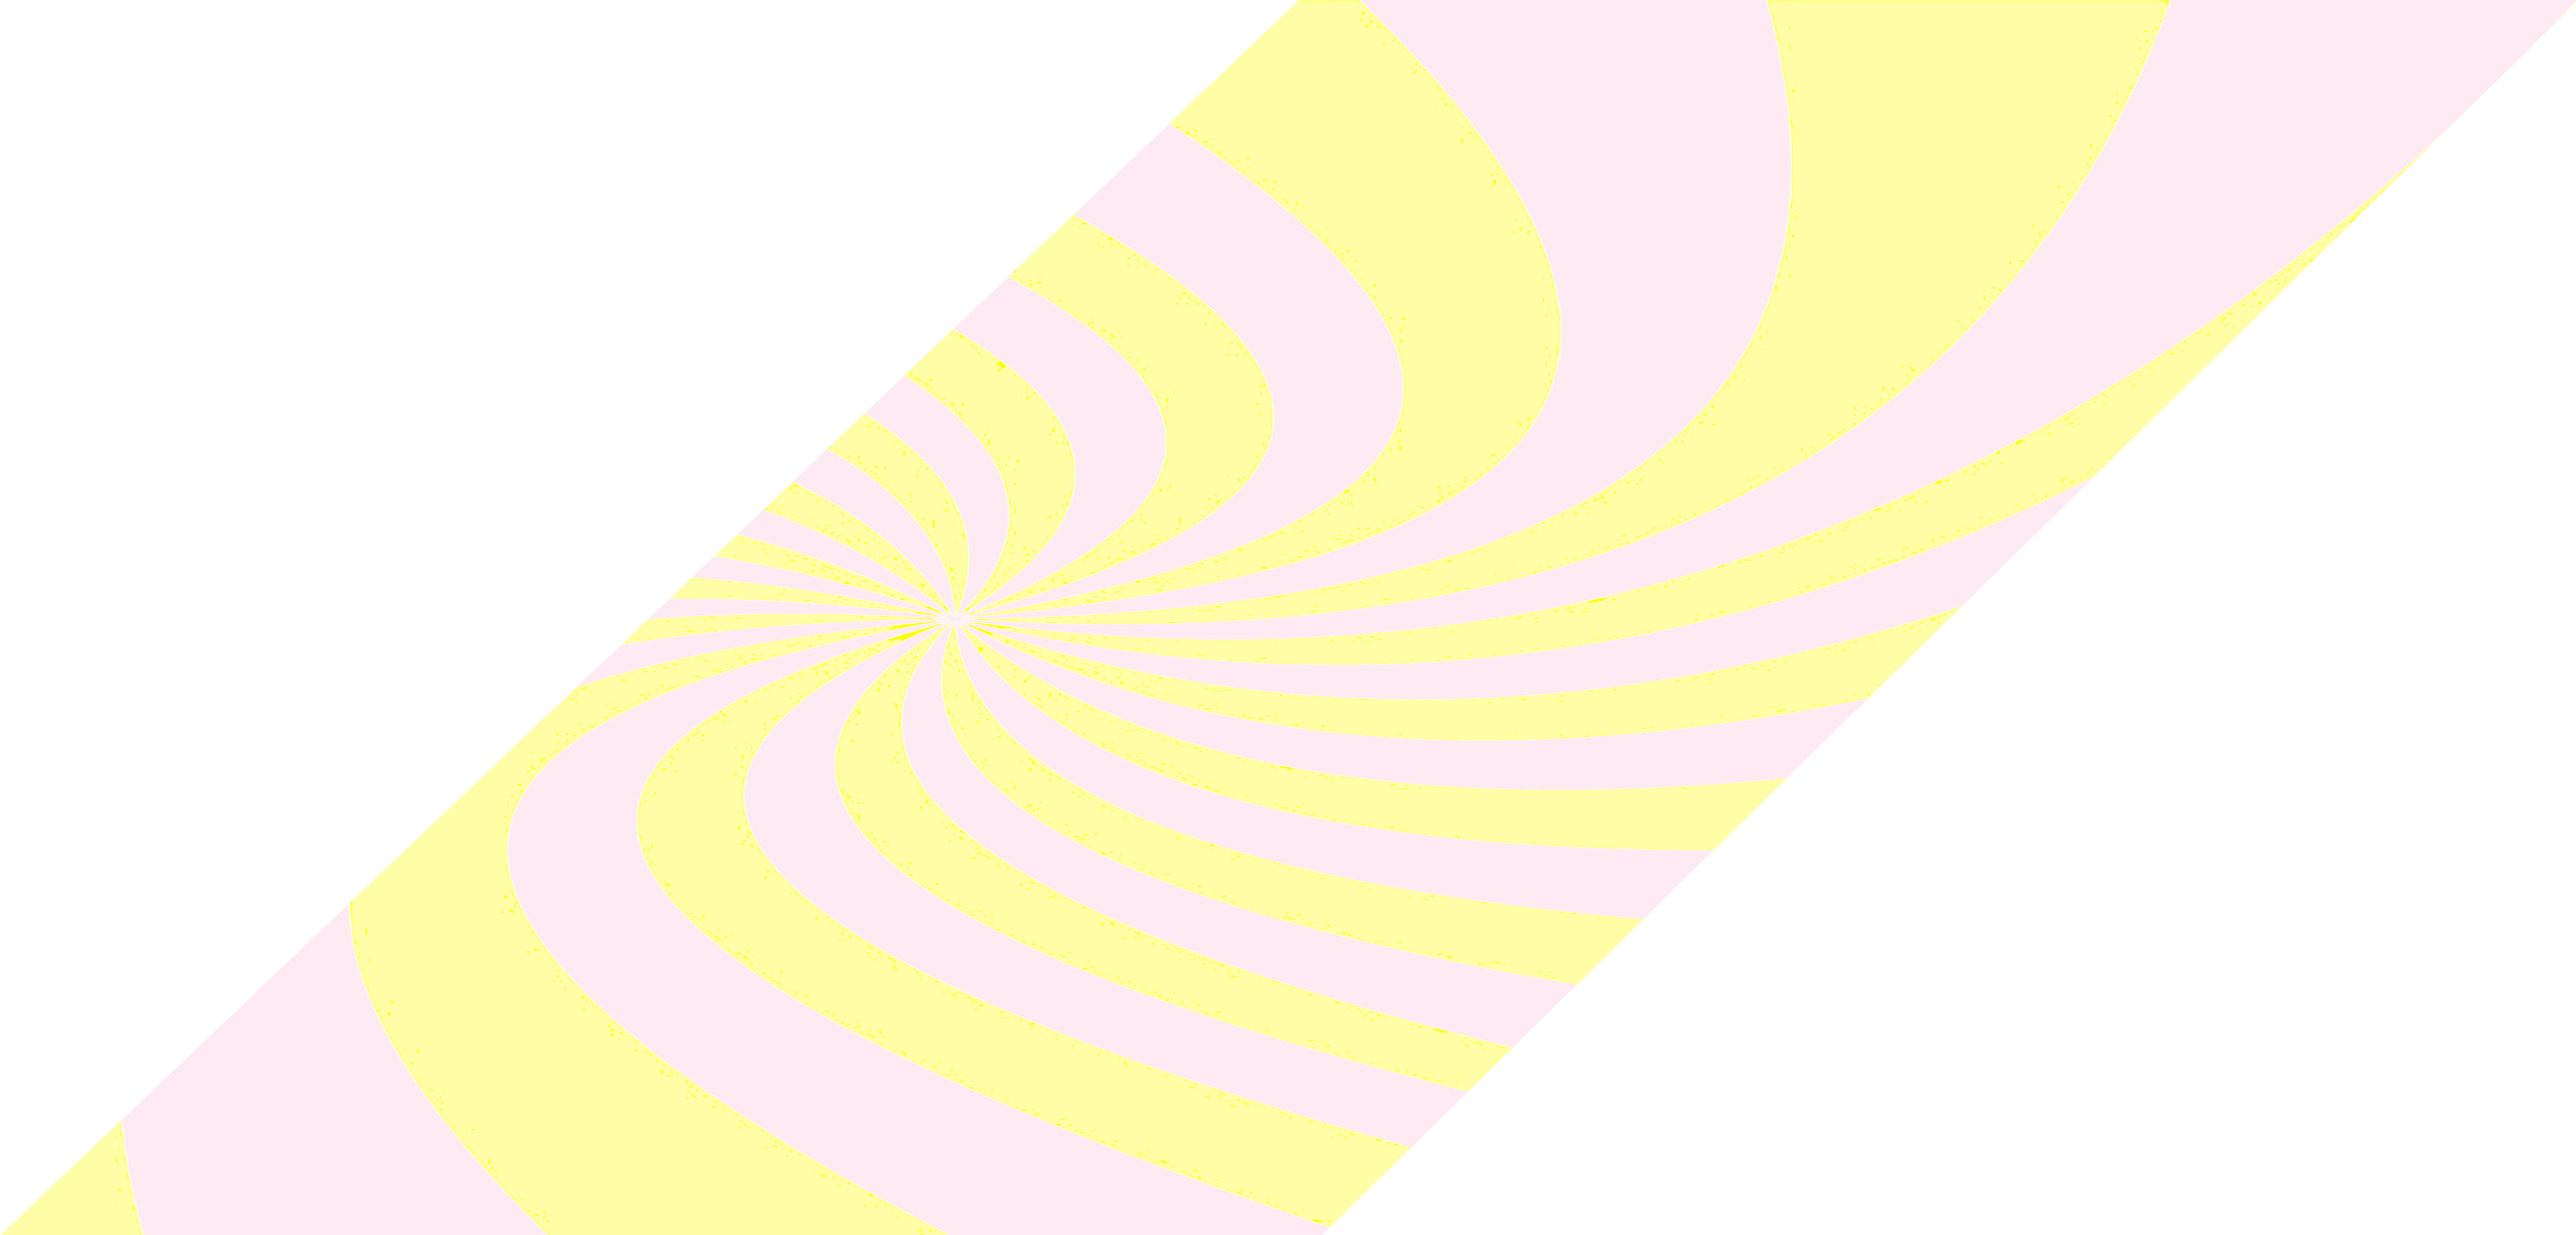
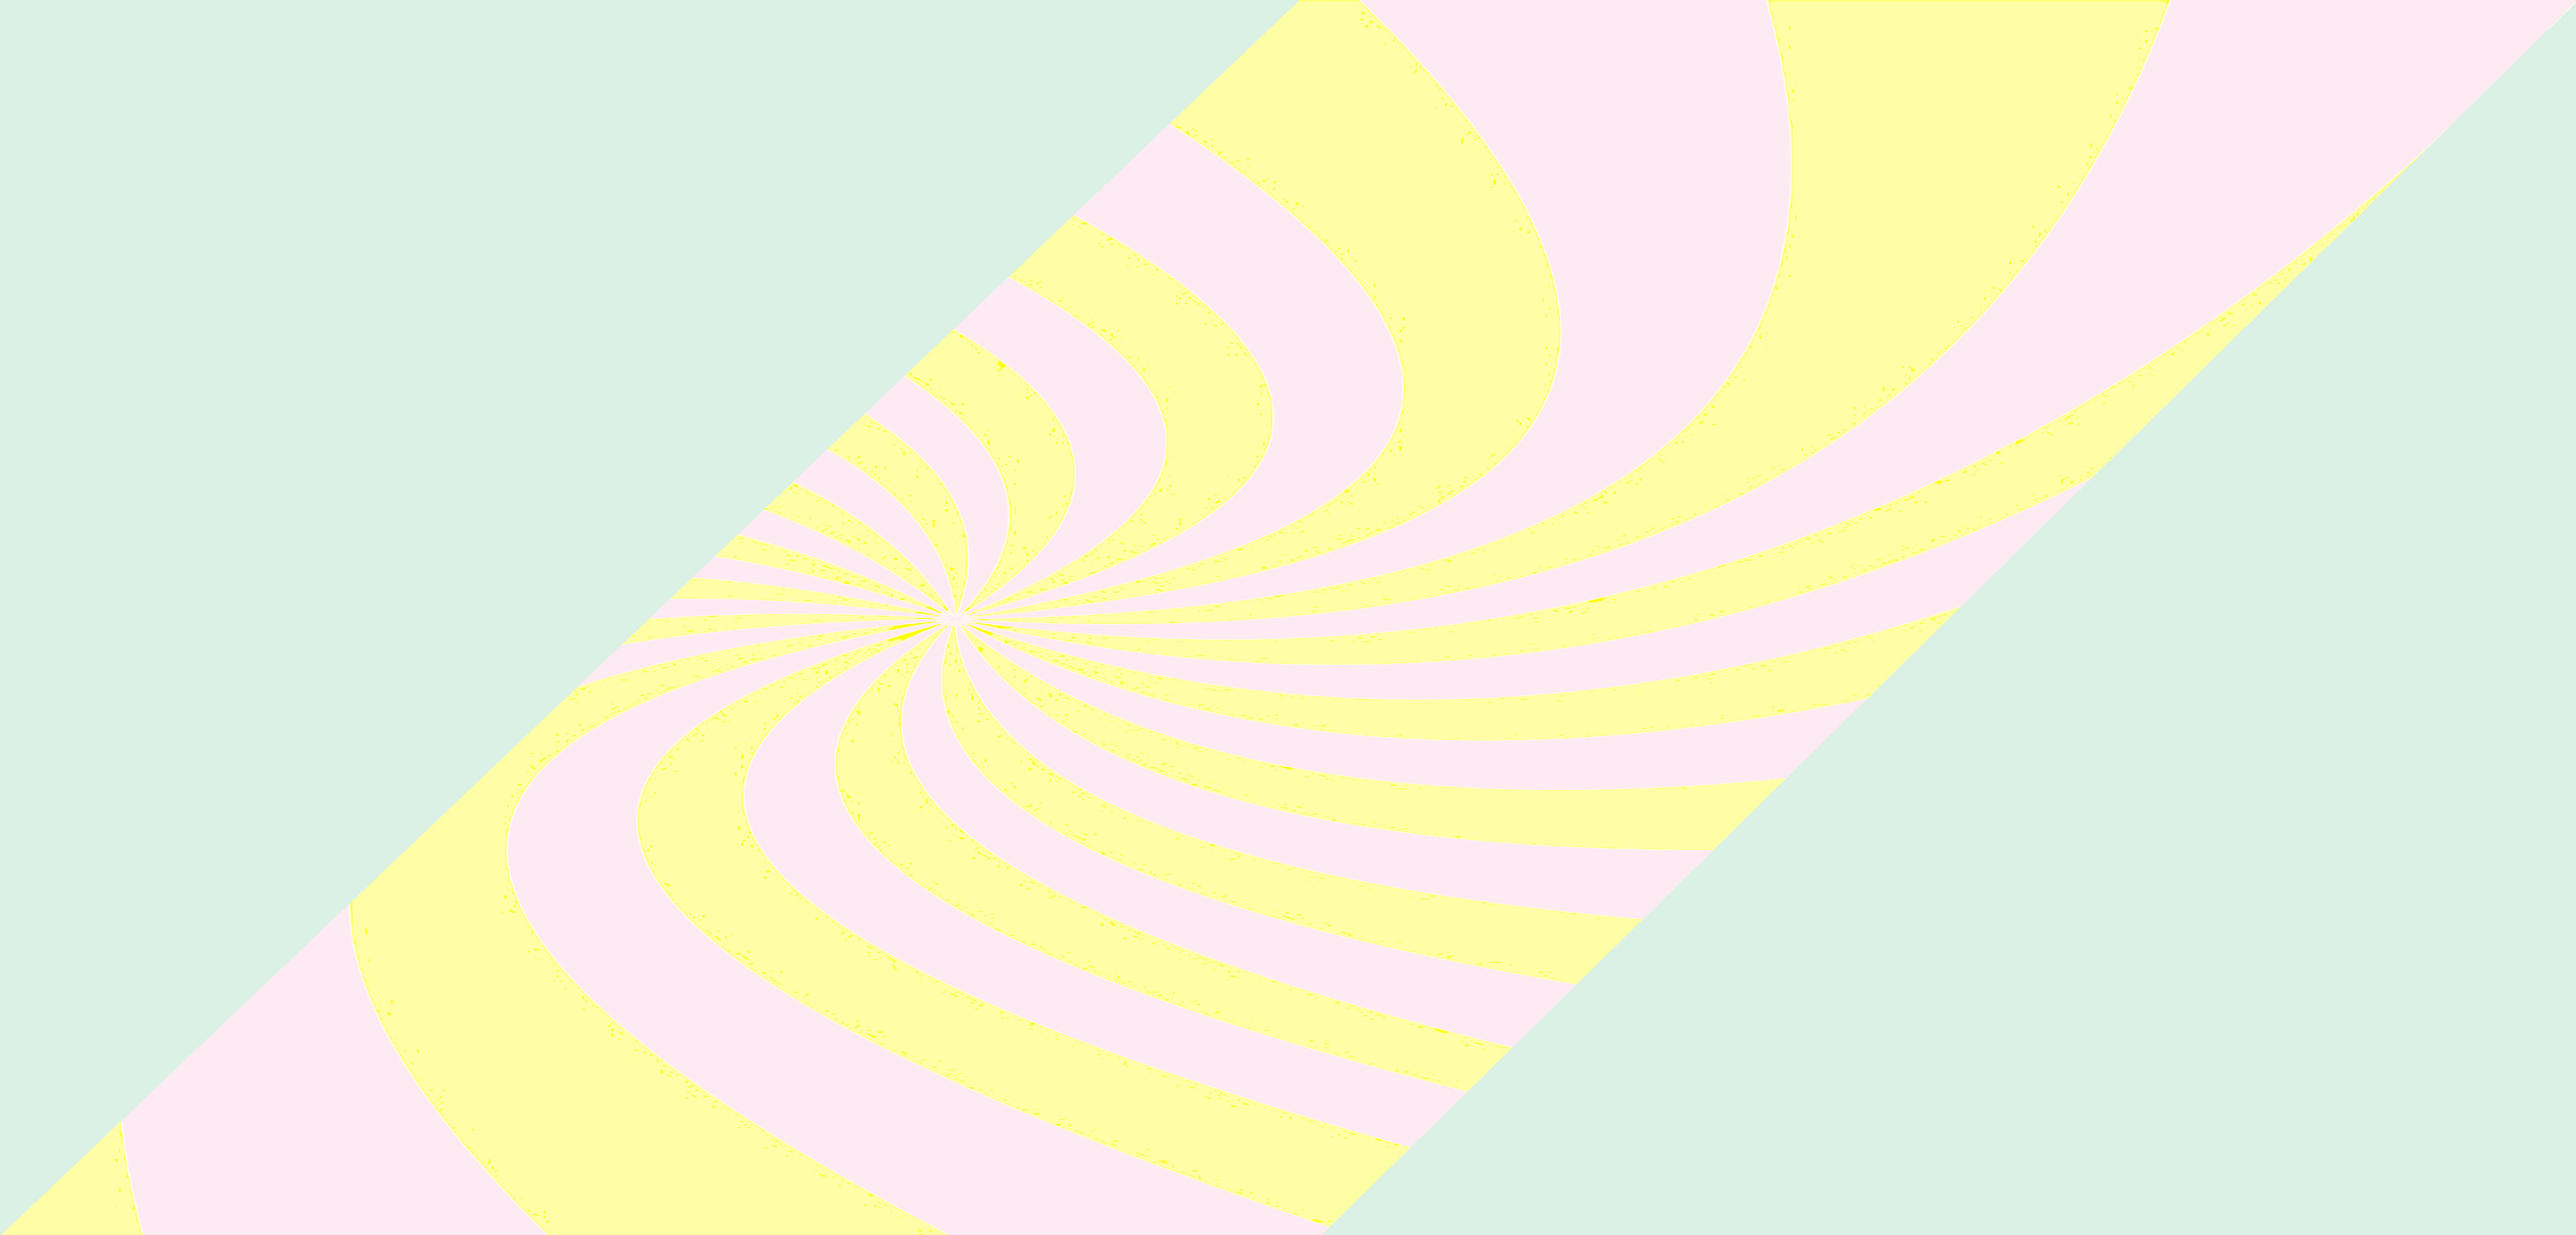
Added background to overlay class

diff --git a/static/css/base.css b/static/css/base.css
@@ -175,7 +175,7 @@ body {
     top: 0;
     left: 0;
     position: fixed;
-    background: white;
+    background: url('/media/overlay_background.jpg') no-repeat center center fixed;
     background-size: cover;
     z-index: -1;
 }
